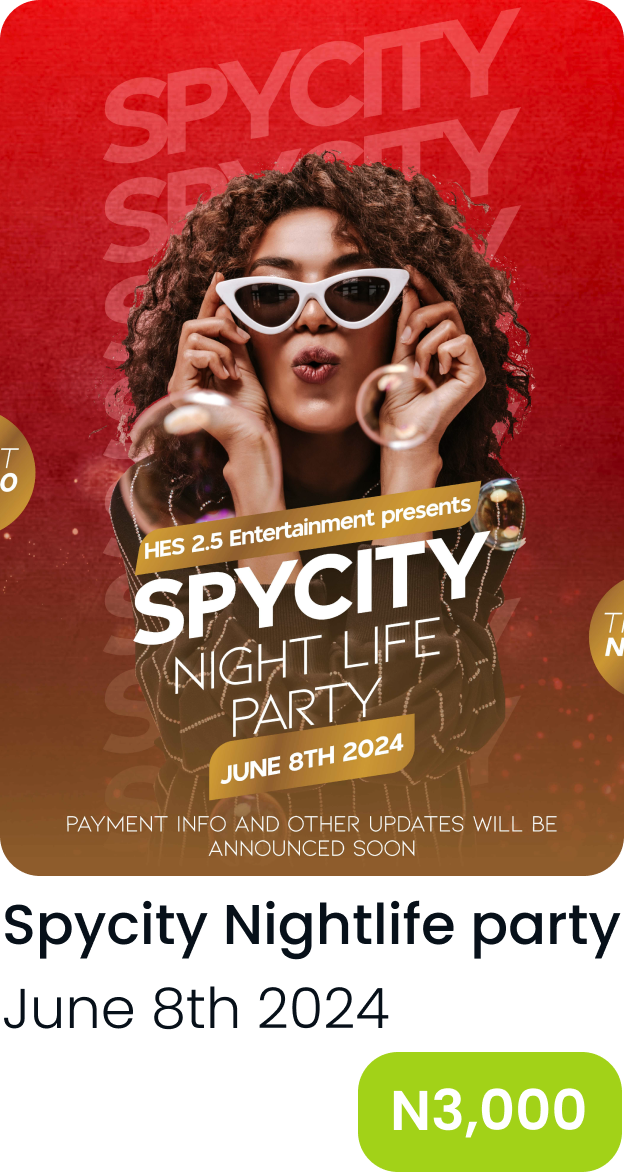
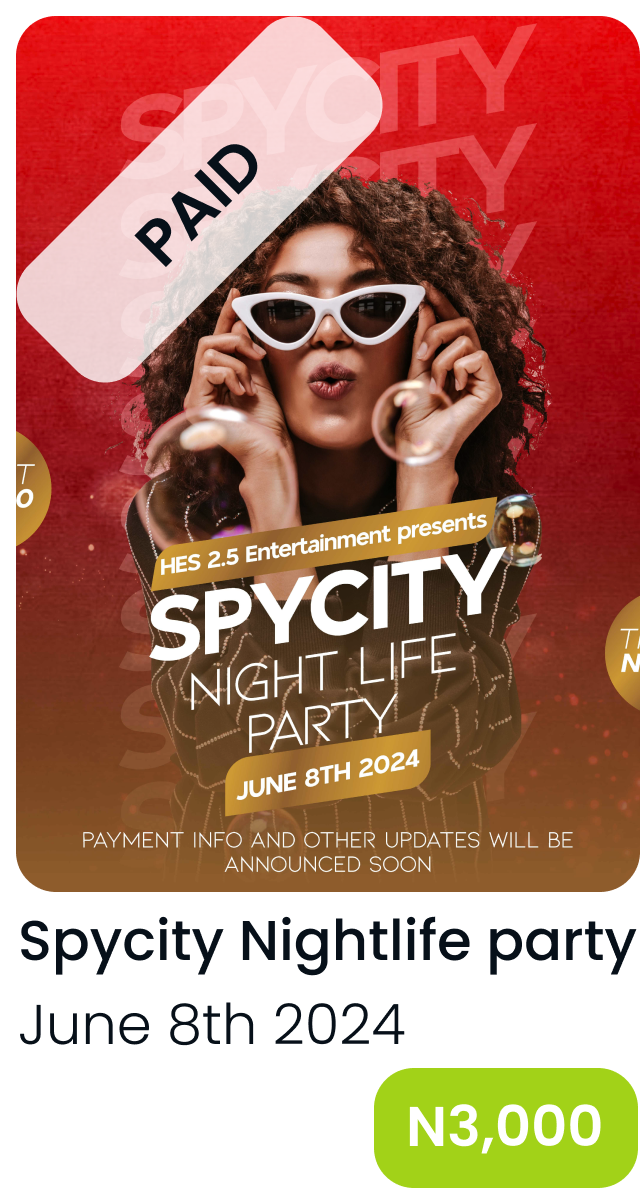
change paid page ui

diff --git a/lib/dashbaord/dashboard.dart b/lib/dashbaord/dashboard.dart
@@ -197,21 +197,25 @@ class _DashboardState extends State<Dashboard> {
 
                                     /////////// card sectitan....
                                     /// detailing
-                                    const Text(
-                                      'Paid',
-                                      style: TextStyle(
-                                          fontFamily: 'Poppins',
-                                          fontWeight: FontWeight.w500,
-                                          fontSize: 20),
-                                    ),
                                     Container(
                                       height: 293,
                                       width: 156,
                                       decoration: const BoxDecoration(
                                           image: DecorationImage(
-                                              image: AssetImage('card.png'))),
+                                              image: AssetImage('paid.png'))),
                                     ),
-
+                                    SizedBox(
+                                      height:
+                                          MediaQuery.sizeOf(context).height *
+                                              0.02,
+                                    ),
+                                    const Text(
+                                      'Thank you for using this ticket payment \nplatform! Please follow our socials for more \nupcoming updates.',
+                                      style: TextStyle(
+                                          fontFamily: 'Poppins',
+                                          fontWeight: FontWeight.w500,
+                                          fontSize: 14),
+                                    ),
                                     SizedBox(
                                       height:
                                           MediaQuery.sizeOf(context).height *
